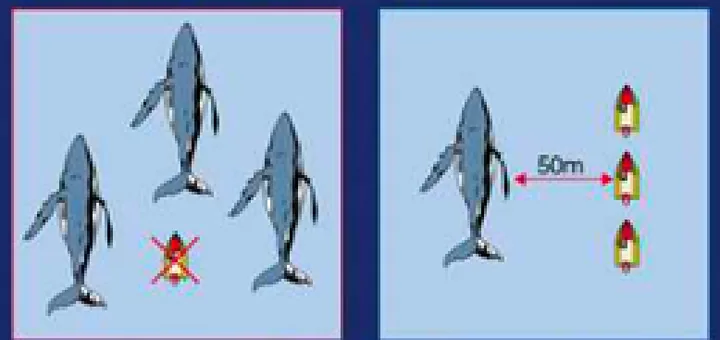
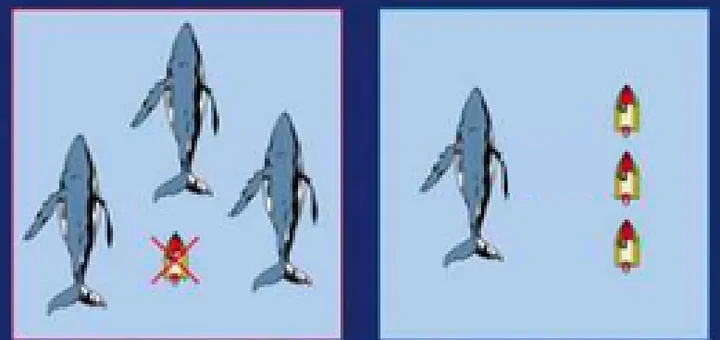
Met à jour les règles d'approche des baleines (réforme 2024)
- Sans autorisation, rester à plus de 300 m ; pas d'observation dans les
  lagons, baies et passes ; 3 nœuds au plus dans les 300 m ; 15 m pour
  les nageurs ; sanctions (code de l'environnement, art. A. 2213-1-4 à 8
  et LP. 2300-2 ; brochure de la Direction de l'environnement 2025).
- Retire les anciennes distances (50 m, nageurs à 30 m), y compris le
  « 50 m » de l'illustration.
- Questions sur les cétacés mises à jour ; sources ajoutées.

Changed region(s): [[0.7028, 0.4412, 0.8556, 0.5588]]

diff --git a/app/data/courseData.js b/app/data/courseData.js
@@ -786,7 +786,7 @@ window.PERMIS_DATA = {
    "tag": "loisirs"
   },
   "mammiferes-vitesse": {
-   "label": "Cétacés : 3 nœuds dans un rayon de 300 m",
+   "label": "Cétacés : plus de 300 m sans autorisation ; 3 nœuds au plus dans cette zone",
    "tag": "environnement"
   },
   "mammiferes-mere-petit": {
@@ -1184,7 +1184,7 @@ window.PERMIS_DATA = {
    "title": "Les loisirs nautiques",
    "subtitle": "Véhicules nautiques à moteur, ski nautique, plongée, planches à voile, mammifères marins",
    "minutes": 12,
-   "summary": "Les VNM exigent le permis côtier, ne naviguent que de jour et restent à 2 milles du rivage au plus (1 mille pilote debout) ; le ski nautique impose un pilote et un surveillant et une flamme orange ; on passe à plus de 100 m d’un bateau de plongée ; planches et kites sont prioritaires mais limités à 2 milles d’un abri ; les baleines s’observent à distance, à 3 nœuds au plus.",
+   "summary": "Les VNM exigent le permis côtier, ne naviguent que de jour et restent à 2 milles du rivage au plus (1 mille pilote debout) ; le ski nautique impose un pilote et un surveillant et une flamme orange ; on passe à plus de 100 m d’un bateau de plongée ; planches et kites sont prioritaires mais limités à 2 milles d’un abri ; les baleines se regardent de loin : à plus de 300 m sans autorisation, jamais dans les lagons, baies et passes.",
    "keyRules": [
     "VNM : permis côtier, de jour uniquement ; au plus 2 milles du rivage si le pilote est assis, 1 mille s’il est debout (arrêté n° 1097 CM).",
     "Ski nautique : 2 personnes à bord (pilote + surveillant), sauf titulaire du brevet d’État de moniteur de ski nautique.",
@@ -1192,9 +1192,9 @@ window.PERMIS_DATA = {
     "Plongée : pavillon A (ou pavillon rouge à diagonale blanche) ; naviguer à plus de 100 m ; de nuit, feux de capacité de manœuvre restreinte (rouge, blanc, rouge).",
     "Planches à voile et kites : prioritaires sur le bateau à moteur (sauf s’ils vous rattrapent), limités à 2 milles d’un abri.",
     "Près du rivage : moins de 5 nœuds à moins de 70 m (Polynésie) ; la bande des 300 m est la zone de baignade.",
-    "Baleines : 3 nœuds dans un rayon de 300 m, jamais devant ni derrière l’animal, ne pas les poursuivre ni les encercler."
+    "Baleines : sans autorisation, rester à plus de 300 m ; pas d’observation dans les lagons, baies et passes ; 3 nœuds au plus dans les 300 m ; ne jamais poursuivre, encercler ni couper la route."
    ],
-   "html": "<p class=\"lead\">Les lagons et la côte polynésienne sont partagés entre baigneurs, plongeurs, skieurs, jet-skis, kitesurfeurs et baleines. Chaque activité a ses règles : connaître celles des autres permet de naviguer prudemment à côté d’eux.</p>\n\n<h3>Les véhicules nautiques à moteur (VNM)</h3>\n<p>Motos de mer, scooters des mers, jet-skis : ce sont des <strong>navires à moteur</strong> au regard des règles de barre et de route.</p>\n<ul class=\"checklist\">\n  <li>Requiert le <strong>permis côtier</strong> (au-delà de 6 CV / 4,5 kW).</li>\n  <li>Évolue <strong>uniquement de jour</strong> : jamais de nuit, en aucun cas (même avec des feux).</li>\n  <li>Ne s’éloigne pas à plus de <strong>2 milles du rivage</strong> si le pilote est <strong>assis</strong>, et <strong>1 mille du rivage</strong> si le pilote est <strong>debout</strong> (arrêté n° 1097 CM du 17 juillet 2009).</li>\n  <li>Pilote et passagers portent un <strong>équipement individuel de flottabilité</strong>.</li>\n  <li>À bord : <strong>2 feux automatiques à main</strong>, un <strong>dispositif de remorquage</strong> (anneau et bout d’environ 3 fois la longueur du VNM), un <strong>coupe-circuit</strong> relié au pilote.</li>\n  <li>Le VNM est <strong>immatriculé</strong> ; l’immatriculation doit être lisible à 30 m et le bruit est limité à 80 dB à 7,50 m.</li>\n</ul>\n<div class=\"callout pf\"><strong>VNM en Polynésie : 2 milles et 1 mille du rivage</strong><p>Certains supports de cours indiquent 6 milles d’un abri (pilote assis) et 2 milles (pilote debout) : ce sont des chiffres de la réglementation métropolitaine. En Polynésie française, l’arrêté n° 1097 CM du 17 juillet 2009 fixe la limite à <strong>2 milles du rivage</strong> pour un pilote assis et <strong>1 mille du rivage</strong> pour un pilote debout, de jour uniquement, avec un titre de conduite (permis côtier).</p><p class=\"src\">Source : <a href=\"https://www.service-public.pf/dpam/wp-content/uploads/sites/20/2018/07/Arr%C3%AAt%C3%A9-n%C2%B0-1097-CM-du-17-juillet-2009-relatif-%C3%A0-la-conduite-des-v%C3%A9hicules-nautiques-%C3%A0-moteur.pdf\" target=\"_blank\" rel=\"noopener\">arrêté n° 1097 CM</a>.</p></div>\n<div class=\"callout tip\"><strong>Près des plages</strong><p>Vitesse inférieure à <strong>5 nœuds à moins de 70 m du rivage</strong>. Pour rejoindre le large depuis la plage, emprunter le <strong>chenal traversier</strong> balisé ; s’il n’y en a pas, sortir <strong>perpendiculairement au rivage</strong>, à vitesse réduite. Des règles locales peuvent restreindre ou interdire les VNM.</p></div>\n\n<h3>Le ski nautique et les engins tractés</h3>\n<ul class=\"checklist\">\n  <li><strong>2 personnes à bord</strong> du bateau tracteur : <strong>un pilote</strong> et <strong>un surveillant</strong> qui regarde le skieur en permanence.</li>\n  <li>Exception : le pilote titulaire du <strong>brevet d’État de moniteur de ski nautique</strong> (ou d’engins tractés) peut être seul à bord. Le permis côtier ou hauturier ne suffit pas.</li>\n  <li>Le bateau tracteur arbore une <strong>flamme orange fluorescente de 2 m</strong>.</li>\n  <li>Chaque fois que la personne tractée tombe, il faut <strong>remonter la remorque tout de suite</strong> (pour qu’elle ne se prenne pas dans l’hélice), puis revenir doucement vers elle.</li>\n  <li>La personne tractée porte un <strong>gilet</strong> ; le bateau doit pouvoir embarquer toutes les personnes tractées.</li>\n  <li>Les autres bateaux ne se mettent pas dans le sillage d’un bateau qui tire un skieur et restent vigilants près de lui.</li>\n</ul>\n<figure class=\"fig\" data-fig=\"flag\" data-flag=\"ski\"><figcaption>Flamme orange du bateau tracteur</figcaption></figure>\n\n<h3>La plongée sous-marine</h3>\n<div class=\"card-grid\">\n  <div class=\"card\">\n    <figure class=\"fig\" data-fig=\"flag\" data-flag=\"A\"><figcaption>Pavillon A</figcaption></figure>\n    <h4>Pavillon A</h4>\n    <p>Blanc (côté mât) et bleu, en queue d’aronde : « J’ai des plongeurs en immersion ; tenez-vous à distance et passez lentement. »</p>\n  </div>\n  <div class=\"card\">\n    <figure class=\"fig\" data-fig=\"flag\" data-flag=\"diver-red\"><figcaption>Pavillon rouge à diagonale blanche</figcaption></figure>\n    <h4>Pavillon plongée rouge à diagonale blanche</h4>\n    <p>Fond <strong>rouge barré d’une diagonale blanche</strong>. Même signification : plongée sous-marine en cours.</p>\n  </div>\n  <div class=\"card\">\n    <figure class=\"fig\" data-fig=\"lights\" data-rows=\"R|W|R\" data-view=\"feux visibles sur tout l’horizon\"><figcaption>De nuit</figcaption></figure>\n    <h4>De nuit</h4>\n    <p>Le bateau de plongée montre les feux d’un <strong>navire à capacité de manœuvre restreinte</strong> : <strong>rouge, blanc, rouge</strong> superposés.</p>\n  </div>\n</div>\n<ul>\n  <li>Vous devez naviguer à <strong>plus de 100 m</strong> d’un bateau qui montre ce pavillon (zone de protection des plongeurs).</li>\n  <li>N’entrer dans la zone qu’avec une raison valable : <strong>ralentir fortement</strong>, surveiller les <strong>bulles</strong> (ne pas passer dessus), être prêt à passer au point mort ; mêmes précautions en sortant de la zone.</li>\n</ul>\n\n<h3>Planches à voile et kitesurf</h3>\n<ul>\n  <li>Ce sont des <strong>voiliers</strong> : ils sont <strong>prioritaires</strong> par rapport à votre bateau à moteur. Une planche en route de collision, même sur votre bâbord : <strong>c’est vous qui manœuvrez</strong>, sauf si c’est elle qui vous rattrape : le navire rattrapant s’écarte toujours.</li>\n  <li>Leur navigation est limitée à <strong>2 milles d’un abri</strong>.</li>\n</ul>\n\n<h3>Les mammifères marins</h3>\n<div class=\"callout pf\" data-unsourced><strong>Baleines à bosse en Polynésie</strong><p>Les baleines à bosse séjournent dans les eaux polynésiennes environ de <strong>juillet à novembre</strong> pour se reproduire et mettre bas. Une baleine pèse jusqu’à <strong>40 tonnes</strong> : elle peut représenter un danger pour votre sécurité. Les règles d’observation sont fixées par la réglementation polynésienne de l’environnement.</p></div>\n<ul class=\"checklist\">\n  <li><strong>Réduire la vitesse à 3 nœuds</strong> dans un rayon de <strong>300 m</strong> autour du cétacé (zone de prudence) ; y éviter les brusques changements de direction et de régime moteur.</li>\n  <li><strong>Zone interdite</strong> : pas de bateau <strong>devant ni derrière</strong> l’animal ; ne pas attendre sur sa route et <strong>ne pas poursuivre</strong> les baleines.</li>\n  <li>Rester sur le côté de l’animal, à la distance indiquée par la réglementation (bateaux à <strong>50 m</strong> sur le côté, <strong>100 m</strong> dans certaines situations). Les nageurs restent à 30 m et les avions au-dessus de 300 m.</li>\n  <li>Ne pas naviguer au milieu d’un groupe : se mettre sur le côté.</li>\n  <li><strong>Ne pas encercler</strong> les baleines.</li>\n  <li>Ne jamais se placer <strong>entre une mère et son petit</strong>.</li>\n  <li>Ne pas <strong>bloquer</strong> les baleines contre le récif.</li>\n  <li>Les sonars utilisés à d’autres fréquences que celles de la navigation sont interdits.</li>\n</ul>\n<div class=\"photo-pair\">\n  <figure class=\"photo\"><img src=\"assets/c/baleines-groupe.webp\" width=\"720\" height=\"340\" loading=\"lazy\" alt=\"À gauche, un bateau barré d’une croix rouge au milieu de trois baleines ; à droite, trois bateaux alignés sur le côté d’une baleine, à 50 m.\"><figcaption>Pas au milieu d’un groupe : sur le côté, à 50 m.</figcaption></figure>\n  <figure class=\"photo\"><img src=\"assets/c/baleines-mere-petit.webp\" width=\"720\" height=\"340\" loading=\"lazy\" alt=\"À gauche, un bateau barré d’une croix rouge entre une baleine et son petit ; à droite, deux bateaux restent à l’écart de la mère et du petit.\"><figcaption>Jamais entre une mère et son petit.</figcaption></figure>\n</div>"
+   "html": "<p class=\"lead\">Les lagons et la côte polynésienne sont partagés entre baigneurs, plongeurs, skieurs, jet-skis, kitesurfeurs et baleines. Chaque activité a ses règles : connaître celles des autres permet de naviguer prudemment à côté d’eux.</p>\n\n<h3>Les véhicules nautiques à moteur (VNM)</h3>\n<p>Motos de mer, scooters des mers, jet-skis : ce sont des <strong>navires à moteur</strong> au regard des règles de barre et de route.</p>\n<ul class=\"checklist\">\n  <li>Requiert le <strong>permis côtier</strong> (au-delà de 6 CV / 4,5 kW).</li>\n  <li>Évolue <strong>uniquement de jour</strong> : jamais de nuit, en aucun cas (même avec des feux).</li>\n  <li>Ne s’éloigne pas à plus de <strong>2 milles du rivage</strong> si le pilote est <strong>assis</strong>, et <strong>1 mille du rivage</strong> si le pilote est <strong>debout</strong> (arrêté n° 1097 CM du 17 juillet 2009).</li>\n  <li>Pilote et passagers portent un <strong>équipement individuel de flottabilité</strong>.</li>\n  <li>À bord : <strong>2 feux automatiques à main</strong>, un <strong>dispositif de remorquage</strong> (anneau et bout d’environ 3 fois la longueur du VNM), un <strong>coupe-circuit</strong> relié au pilote.</li>\n  <li>Le VNM est <strong>immatriculé</strong> ; l’immatriculation doit être lisible à 30 m et le bruit est limité à 80 dB à 7,50 m.</li>\n</ul>\n<div class=\"callout pf\"><strong>VNM en Polynésie : 2 milles et 1 mille du rivage</strong><p>Certains supports de cours indiquent 6 milles d’un abri (pilote assis) et 2 milles (pilote debout) : ce sont des chiffres de la réglementation métropolitaine. En Polynésie française, l’arrêté n° 1097 CM du 17 juillet 2009 fixe la limite à <strong>2 milles du rivage</strong> pour un pilote assis et <strong>1 mille du rivage</strong> pour un pilote debout, de jour uniquement, avec un titre de conduite (permis côtier).</p><p class=\"src\">Source : <a href=\"https://www.service-public.pf/dpam/wp-content/uploads/sites/20/2018/07/Arr%C3%AAt%C3%A9-n%C2%B0-1097-CM-du-17-juillet-2009-relatif-%C3%A0-la-conduite-des-v%C3%A9hicules-nautiques-%C3%A0-moteur.pdf\" target=\"_blank\" rel=\"noopener\">arrêté n° 1097 CM</a>.</p></div>\n<div class=\"callout tip\"><strong>Près des plages</strong><p>Vitesse inférieure à <strong>5 nœuds à moins de 70 m du rivage</strong>. Pour rejoindre le large depuis la plage, emprunter le <strong>chenal traversier</strong> balisé ; s’il n’y en a pas, sortir <strong>perpendiculairement au rivage</strong>, à vitesse réduite. Des règles locales peuvent restreindre ou interdire les VNM.</p></div>\n\n<h3>Le ski nautique et les engins tractés</h3>\n<ul class=\"checklist\">\n  <li><strong>2 personnes à bord</strong> du bateau tracteur : <strong>un pilote</strong> et <strong>un surveillant</strong> qui regarde le skieur en permanence.</li>\n  <li>Exception : le pilote titulaire du <strong>brevet d’État de moniteur de ski nautique</strong> (ou d’engins tractés) peut être seul à bord. Le permis côtier ou hauturier ne suffit pas.</li>\n  <li>Le bateau tracteur arbore une <strong>flamme orange fluorescente de 2 m</strong>.</li>\n  <li>Chaque fois que la personne tractée tombe, il faut <strong>remonter la remorque tout de suite</strong> (pour qu’elle ne se prenne pas dans l’hélice), puis revenir doucement vers elle.</li>\n  <li>La personne tractée porte un <strong>gilet</strong> ; le bateau doit pouvoir embarquer toutes les personnes tractées.</li>\n  <li>Les autres bateaux ne se mettent pas dans le sillage d’un bateau qui tire un skieur et restent vigilants près de lui.</li>\n</ul>\n<figure class=\"fig\" data-fig=\"flag\" data-flag=\"ski\"><figcaption>Flamme orange du bateau tracteur</figcaption></figure>\n\n<h3>La plongée sous-marine</h3>\n<div class=\"card-grid\">\n  <div class=\"card\">\n    <figure class=\"fig\" data-fig=\"flag\" data-flag=\"A\"><figcaption>Pavillon A</figcaption></figure>\n    <h4>Pavillon A</h4>\n    <p>Blanc (côté mât) et bleu, en queue d’aronde : « J’ai des plongeurs en immersion ; tenez-vous à distance et passez lentement. »</p>\n  </div>\n  <div class=\"card\">\n    <figure class=\"fig\" data-fig=\"flag\" data-flag=\"diver-red\"><figcaption>Pavillon rouge à diagonale blanche</figcaption></figure>\n    <h4>Pavillon plongée rouge à diagonale blanche</h4>\n    <p>Fond <strong>rouge barré d’une diagonale blanche</strong>. Même signification : plongée sous-marine en cours.</p>\n  </div>\n  <div class=\"card\">\n    <figure class=\"fig\" data-fig=\"lights\" data-rows=\"R|W|R\" data-view=\"feux visibles sur tout l’horizon\"><figcaption>De nuit</figcaption></figure>\n    <h4>De nuit</h4>\n    <p>Le bateau de plongée montre les feux d’un <strong>navire à capacité de manœuvre restreinte</strong> : <strong>rouge, blanc, rouge</strong> superposés.</p>\n  </div>\n</div>\n<ul>\n  <li>Vous devez naviguer à <strong>plus de 100 m</strong> d’un bateau qui montre ce pavillon (zone de protection des plongeurs).</li>\n  <li>N’entrer dans la zone qu’avec une raison valable : <strong>ralentir fortement</strong>, surveiller les <strong>bulles</strong> (ne pas passer dessus), être prêt à passer au point mort ; mêmes précautions en sortant de la zone.</li>\n</ul>\n\n<h3>Planches à voile et kitesurf</h3>\n<ul>\n  <li>Ce sont des <strong>voiliers</strong> : ils sont <strong>prioritaires</strong> par rapport à votre bateau à moteur. Une planche en route de collision, même sur votre bâbord : <strong>c’est vous qui manœuvrez</strong>, sauf si c’est elle qui vous rattrape : le navire rattrapant s’écarte toujours.</li>\n  <li>Leur navigation est limitée à <strong>2 milles d’un abri</strong>.</li>\n</ul>\n\n<h3>Les mammifères marins</h3>\n<div class=\"callout pf\"><strong>Baleines à bosse en Polynésie</strong><p>Les baleines à bosse séjournent dans les eaux polynésiennes environ de <strong>juillet à novembre</strong> pour se reproduire et mettre bas. Une baleine pèse jusqu’à <strong>40 tonnes</strong> : elle peut représenter un danger pour votre sécurité. Les règles d’approche relèvent du code de l’environnement (Direction de l’environnement), pas de la réglementation maritime, et elles ont été durcies fin 2024.</p><p class=\"src\">Sources : <a href=\"https://lexpol.cloud.pf/LexpolAfficheTexte.php?texte=581593\" target=\"_blank\" rel=\"noopener\">code de l’environnement de la Polynésie française, art. A. 2213-1-4 à A. 2213-1-8 et LP. 2300-2</a> ; <a href=\"https://www.service-public.pf/diren/wp-content/uploads/sites/17/2025/05/MMM_2025.pdf\" target=\"_blank\" rel=\"noopener\">Direction de l’environnement, Comment observer les mammifères marins (2025)</a>.</p></div>\n<ul class=\"checklist\">\n  <li>Sans autorisation d’observation (c’est le cas de tout plaisancier), rester <strong>à plus de 300 m</strong> de l’animal. Seuls quelques prestataires autorisés entrent dans cette zone (3 navires au plus), sans jamais s’approcher à moins de <strong>100 m</strong>.</li>\n  <li>L’observation des baleines est <strong>interdite dans les lagons, les baies et les passes</strong>, et dans un rayon de 1 km autour de l’axe d’une passe.</li>\n  <li>Si une baleine surgit près de vous : <strong>3 nœuds au plus</strong> dans la zone des 300 m, sans changement brusque de direction ni de régime moteur, puis reprenez vos distances en route parallèle. Si l’animal s’approche de lui-même, moteur <strong>au point mort</strong>, sans l’arrêter.</li>\n  <li><strong>Ne pas poursuivre</strong> les baleines, ne pas leur <strong>couper la route</strong>, ne pas les approcher <strong>de face ni par l’arrière</strong>, ne pas attendre sur leur route.</li>\n  <li>Personne ne doit entrer dans un rayon de <strong>15 m</strong> autour de l’animal ; les aéronefs restent <strong>au-dessus de 300 m</strong>.</li>\n  <li>Ne pas naviguer au milieu d’un groupe : se mettre sur le côté.</li>\n  <li><strong>Ne pas encercler</strong> les baleines.</li>\n  <li>Ne jamais se placer <strong>entre une mère et son petit</strong>.</li>\n  <li>Ne pas <strong>bloquer</strong> les baleines contre le récif.</li>\n  <li>Les sonars utilisés à d’autres fréquences que celles de la navigation sont interdits.</li>\n  <li>Poursuivre ou perturber volontairement une baleine est un délit : jusqu’à <strong>2 ans d’emprisonnement</strong> et <strong>17,8 millions F CFP</strong> d’amende.</li>\n</ul>\n<div class=\"photo-pair\">\n  <figure class=\"photo\"><img src=\"assets/c/baleines-groupe.webp\" width=\"720\" height=\"340\" loading=\"lazy\" alt=\"À gauche, un bateau barré d’une croix rouge au milieu de trois baleines ; à droite, trois bateaux alignés sur le côté d’une baleine, à distance.\"><figcaption>Pas au milieu d’un groupe : sur le côté, à distance.</figcaption></figure>\n  <figure class=\"photo\"><img src=\"assets/c/baleines-mere-petit.webp\" width=\"720\" height=\"340\" loading=\"lazy\" alt=\"À gauche, un bateau barré d’une croix rouge entre une baleine et son petit ; à droite, deux bateaux restent à l’écart de la mère et du petit.\"><figcaption>Jamais entre une mère et son petit.</figcaption></figure>\n</div>"
   },
   {
    "id": "mod4_sec4",
@@ -9545,7 +9545,7 @@ window.PERMIS_DATA = {
   {
    "id": "gen_mod4_sec3_9",
    "sectionId": "mod4_sec3",
-   "question": "Vous apercevez une baleine à bosse. À quelle vitesse maximale devez-vous naviguer dans un rayon de 300 m autour d’elle ?",
+   "question": "Une baleine à bosse fait surface à 200 m de votre bateau. Quelle vitesse ne devez-vous pas dépasser dans ce rayon de 300 m ?",
    "options": {
     "A": "3 nœuds",
     "B": "5 nœuds",
@@ -9553,7 +9553,7 @@ window.PERMIS_DATA = {
     "D": "Pas de limite"
    },
    "correct": "A",
-   "explanation": "Dans la zone de prudence de 300 m autour d’un cétacé, la vitesse est réduite à 3 nœuds, sans changement brusque de direction ni de régime.",
+   "explanation": "Un plaisancier sans autorisation reste à plus de 300 m d’une baleine. S’il se retrouve dans cette zone, il navigue à 3 nœuds au plus, sans changement brusque de direction ni de régime, et s’éloigne en route parallèle.",
    "tags": [
     "environnement"
    ],
@@ -17965,7 +17965,7 @@ window.PERMIS_DATA = {
   {
    "id": "var_mammiferes-vitesse_1",
    "sectionId": "mod4_sec3",
-   "question": "Dans quel rayon autour d’une baleine faut-il limiter sa vitesse à 3 nœuds ?",
+   "question": "Sans autorisation d’observation, à quelle distance d’une baleine devez-vous rester au minimum ?",
    "options": {
     "A": "50 m",
     "B": "100 m",
@@ -17973,7 +17973,7 @@ window.PERMIS_DATA = {
     "D": "1 mille"
    },
    "correct": "C",
-   "explanation": "La vitesse est réduite à 3 nœuds dans un rayon de 300 m autour du cétacé (zone de prudence).",
+   "explanation": "Depuis fin 2024, les navires sans autorisation (dont tous les plaisanciers) restent à l’extérieur d’un rayon de 300 m autour de l’animal. Les prestataires autorisés peuvent y entrer, sans s’approcher à moins de 100 m.",
    "tags": [
     "environnement"
    ],
@@ -17989,11 +17989,11 @@ window.PERMIS_DATA = {
    "options": {
     "A": "Je réduis à 10 nœuds",
     "B": "Je garde ma vitesse, elle s’écartera d’elle-même à mon approche",
-    "C": "Je réduis à 3 nœuds au plus, sans manœuvre brusque",
+    "C": "Je réduis à 3 nœuds et je m’éloigne sans manœuvre brusque",
     "D": "J’accélère pour passer avant elle"
    },
    "correct": "C",
-   "explanation": "À moins de 300 m d’un cétacé, la vitesse est limitée à 3 nœuds et on évite les changements brusques de direction et de régime moteur.",
+   "explanation": "Un plaisancier sans autorisation reste à plus de 300 m d’une baleine. S’il se retrouve dans cette zone, il navigue à 3 nœuds au plus, sans changement brusque de direction ni de régime, et s’éloigne en route parallèle.",
    "tags": [
     "environnement"
    ],
@@ -18010,7 +18010,7 @@ window.PERMIS_DATA = {
     "D": "Faire des cercles autour de l’animal pour l’observer"
    },
    "correct": "B",
-   "explanation": "Dans un rayon de 300 m autour du cétacé : 3 nœuds au maximum et pas de brusques changements de direction ni de régime moteur.",
+   "explanation": "Un plaisancier sans autorisation reste à plus de 300 m d’une baleine. S’il se retrouve dans cette zone, il navigue à 3 nœuds au plus, sans changement brusque de direction ni de régime, et s’éloigne en route parallèle. On n’encercle jamais l’animal.",
    "tags": [
     "environnement"
    ],
@@ -18019,15 +18019,15 @@ window.PERMIS_DATA = {
   {
    "id": "var_mammiferes-vitesse_4",
    "sectionId": "mod4_sec3",
-   "question": "Dans le lagon, à moins de 70 m du rivage, une baleine à bosse croise à 150 m de vous. Quelle est votre vitesse maximale ?",
+   "question": "Vous êtes dans le lagon et apercevez une baleine à bosse à 150 m. Pouvez-vous vous approcher pour l’observer ?",
    "options": {
-    "A": "5 nœuds, comme près du rivage",
-    "B": "8 nœuds",
-    "C": "3 nœuds",
-    "D": "Aucune limite si vous gardez vos distances"
+    "A": "Oui, à 3 nœuds au plus",
+    "B": "Oui, en restant à 100 m",
+    "C": "Non",
+    "D": "Oui, moteur coupé"
    },
    "correct": "C",
-   "explanation": "Les deux règles s’appliquent en même temps : moins de 5 nœuds à moins de 70 m du rivage, et 3 nœuds dans un rayon de 300 m autour d’un cétacé. On respecte la plus basse : 3 nœuds.",
+   "explanation": "Non : l’observation des baleines est interdite dans les lagons, les baies et les passes, et un plaisancier sans autorisation reste à plus de 300 m. Si elle est proche, 3 nœuds au plus, sans manœuvre brusque, et on s’éloigne.",
    "tags": [
     "environnement"
    ],
@@ -18058,12 +18058,12 @@ window.PERMIS_DATA = {
    "sectionId": "mod4_sec3",
    "question": "À 400 m devant vous, une baleine nage avec son baleineau, à quelques dizaines de mètres l’un de l’autre. Votre route passe entre les deux. Que faites-vous ?",
    "options": {
-    "A": "Je ralentis et me décale sur le côté du groupe, sans passer entre eux",
+    "A": "Je ralentis et m’écarte du groupe, sans passer entre eux",
     "B": "Je garde ma route en ralentissant à 3 nœuds dans les 300 m",
     "C": "Je passe entre les deux rapidement pour ne pas les déranger longtemps"
    },
    "correct": "A",
-   "explanation": "Il ne faut jamais se placer entre une mère et son petit, quelle que soit la vitesse : on ralentit (3 nœuds dans un rayon de 300 m) et on se décale sur le côté du groupe.",
+   "explanation": "Il ne faut jamais se placer entre une mère et son petit, quelle que soit la vitesse : on ralentit et on s’écarte pour rester à plus de 300 m du groupe.",
    "tags": [
     "environnement"
    ],
@@ -18095,7 +18095,7 @@ window.PERMIS_DATA = {
     "D": "C’est interdit, sauf si la mère est loin"
    },
    "correct": "C",
-   "explanation": "Ne jamais se placer entre une mère et son petit ; on observe depuis le côté, à distance.",
+   "explanation": "Ne jamais se placer entre une mère et son petit. Sans autorisation d’observation, on reste à plus de 300 m des baleines.",
    "tags": [
     "environnement"
    ],

diff --git a/app/index.html b/app/index.html
@@ -19,16 +19,16 @@
   <script type="application/ld+json">{"@context": "https://schema.org", "@type": "WebApplication", "name": "Cap Côtier — permis côtier en Polynésie française", "url": "https://cap-cotier-polynesie.github.io/", "inLanguage": "fr-PF", "applicationCategory": "EducationalApplication", "operatingSystem": "Web", "isAccessibleForFree": true, "offers": {"@type": "Offer", "price": "0", "priceCurrency": "XPF"}, "description": "Réviser et réussir le permis bateau côtier en Polynésie française (Tahiti, Moorea, îles) : cours illustrés, près de 1 000 QCM corrigés, examens blancs au format DPAM (20 questions, 15 minutes, 3 erreurs maximum). Gratuit.", "about": "Permis côtier (permis bateau) de Polynésie française délivré par la DPAM", "audience": {"@type": "EducationalAudience", "educationalRole": "student", "geographicArea": "Polynésie française"}, "spatialCoverage": {"@type": "Place", "name": "Polynésie française"}, "creditText": "S’appuie notamment sur les supports de formation de Fluid Tahiti (https://www.fluid-tahiti.com/)"}</script>
   <meta name="theme-color" content="#f4efe4" media="(prefers-color-scheme: light)">
   <meta name="theme-color" content="#071220" media="(prefers-color-scheme: dark)">
-  <link rel="icon" type="image/svg+xml" href="assets/icon.svg?v=4fc30acde3">
-  <link rel="apple-touch-icon" href="assets/icon.svg?v=4fc30acde3">
+  <link rel="icon" type="image/svg+xml" href="assets/icon.svg?v=0ea2b5b1bd">
+  <link rel="apple-touch-icon" href="assets/icon.svg?v=0ea2b5b1bd">
 
   <link rel="preconnect" href="https://fonts.googleapis.com">
   <link rel="preconnect" href="https://fonts.gstatic.com" crossorigin>
   <link href="https://fonts.googleapis.com/css2?family=Atkinson+Hyperlegible+Next:ital,wght@0,400;0,700;1,400&family=DM+Mono:wght@400;500&family=Fraunces:ital,opsz,wght,SOFT@0,9..144,300..700,0..100;1,9..144,300..700,0..100&display=swap" rel="stylesheet">
-  <link rel="stylesheet" href="css/style.css?v=4fc30acde3">
+  <link rel="stylesheet" href="css/style.css?v=0ea2b5b1bd">
 
   <!-- Thème appliqué avant le rendu pour éviter tout flash -->
-  <script src="js/theme.js?v=4fc30acde3"></script>
+  <script src="js/theme.js?v=0ea2b5b1bd"></script>
 
   <!-- Statistiques de fréquentation (Tidesight, auto-hébergé) -->
   <script async src="https://tidesight.erwinmayer.com/ts.js" data-site="cap-cotier-polynesie-github-io"></script>
@@ -40,7 +40,7 @@
   <header class="topbar">
     <div class="topbar-inner">
       <a class="brand" href="#/" aria-label="Cap Côtier — accueil">
-        <img class="brand-mark" src="assets/icon.svg?v=4fc30acde3" alt="" width="38" height="38">
+        <img class="brand-mark" src="assets/icon.svg?v=0ea2b5b1bd" alt="" width="38" height="38">
         <span class="brand-text">
           <span class="brand-name">Cap <em>Côtier</em></span>
           <span class="brand-sub">Permis côtier · Polynésie</span>
@@ -111,12 +111,12 @@
   <dialog id="appDialog"></dialog>
   <div class="toast-wrap" id="toasts" aria-live="polite"></div>
 
-  <script src="data/courseData.js?v=4fc30acde3"></script>
-  <script src="js/audio.js?v=4fc30acde3"></script>
-  <script src="js/storage.js?v=4fc30acde3"></script>
-  <script src="js/fsrs.js?v=4fc30acde3"></script>
-  <script src="js/figures.js?v=4fc30acde3"></script>
-  <script src="js/quiz.js?v=4fc30acde3"></script>
-  <script src="js/app.js?v=4fc30acde3"></script>
+  <script src="data/courseData.js?v=0ea2b5b1bd"></script>
+  <script src="js/audio.js?v=0ea2b5b1bd"></script>
+  <script src="js/storage.js?v=0ea2b5b1bd"></script>
+  <script src="js/fsrs.js?v=0ea2b5b1bd"></script>
+  <script src="js/figures.js?v=0ea2b5b1bd"></script>
+  <script src="js/quiz.js?v=0ea2b5b1bd"></script>
+  <script src="js/app.js?v=0ea2b5b1bd"></script>
 </body>
 </html>
